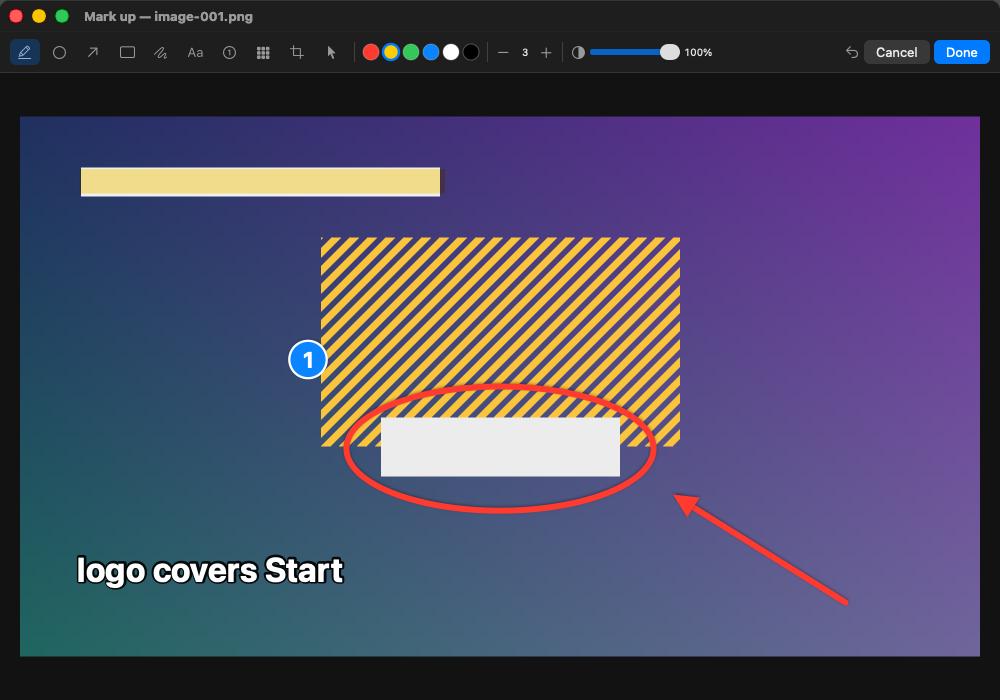
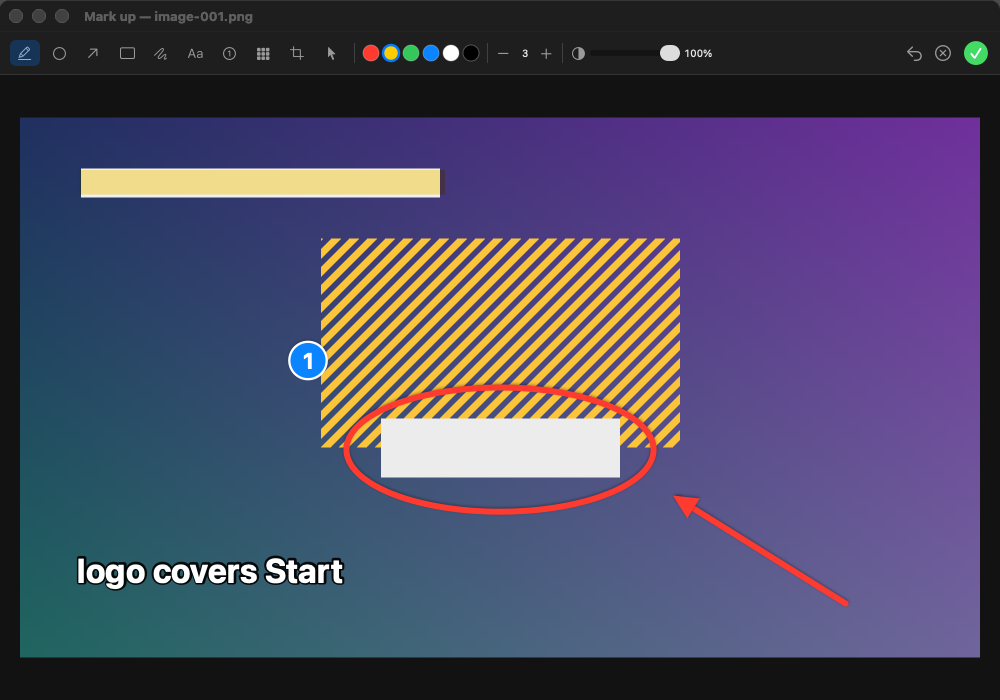
Mark-up: Done is a green tick, Cancel/No Marks a cross, Discard a red bin, and they never shrink on a narrow window

diff --git a/Sources/Snagbook/Annotate/Annotator.swift b/Sources/Snagbook/Annotate/Annotator.swift
@@ -269,18 +269,35 @@ struct AnnotatorView: View {
                 Divider().frame(height: 20).padding(.horizontal, 4)
                 Image(systemName: "circle.lefthalf.filled").foregroundStyle(.secondary).help("Opacity")
                 Slider(value: Binding(get: { a.opacity }, set: { a.setOpacity($0) }), in: 0.1...1)
-                    .frame(width: 90)
+                    .frame(minWidth: 40, idealWidth: 90, maxWidth: 90)
                     .help("How solid marks are: drag left to see the picture through them (, and . step it)")
                 Text("\(Int((a.opacity * 100).rounded()))%").font(.caption.monospacedDigit()).frame(width: 34, alignment: .leading)
                 Spacer(minLength: 12)
-                Button { a.undo() } label: { Image(systemName: "arrow.uturn.backward") }.buttonStyle(.borderless).help("Undo (⌘Z)")
-                if a.isNew {
-                    Button("Discard", role: .destructive) { a.discard() }.help("Throw this screenshot away (⌘⌫)")
-                    Button("No Marks") { a.skip() }.help("Keep the screenshot as it is (Esc)")
-                } else {
-                    Button("Cancel") { a.skip() }.help("Keep the picture as it was (Esc)")
+                // Icons that never shrink: on a narrow window the words were squeezed to slivers.
+                HStack(spacing: 10) {
+                    Button { a.undo() } label: { Image(systemName: "arrow.uturn.backward") }.buttonStyle(.borderless).help("Undo (⌘Z)")
+                    if a.isNew {
+                        Button { a.discard() } label: { Image(systemName: "trash").foregroundStyle(.red) }
+                            .buttonStyle(.borderless).help("Discard: throw this screenshot away (⌘⌫)")
+                        Button { a.skip() } label: { Image(systemName: "xmark.circle") }
+                            .buttonStyle(.borderless).help("No marks: keep the screenshot as it is (Esc)")
+                    } else {
+                        Button { a.skip() } label: { Image(systemName: "xmark.circle") }
+                            .buttonStyle(.borderless).help("Cancel: keep the picture as it was (Esc)")
+                    }
+                    Button { a.done() } label: {
+                        Image(systemName: "checkmark.circle.fill")
+                            .symbolRenderingMode(.palette)
+                            .foregroundStyle(.white, .green)
+                            .font(.system(size: 24))
+                    }
+                    .buttonStyle(.plain)
+                    .keyboardShortcut(.defaultAction)
+                    .help("Done: save the marks (Return)")
                 }
-                Button("Done") { a.done() }.keyboardShortcut(.defaultAction).help("Save (Return)")
+                .font(.system(size: 16))
+                .fixedSize()
+                .layoutPriority(1)
             }
             .padding(.horizontal, 10).padding(.vertical, 7)
             .background(.bar)

diff --git a/Sources/Snagbook/Support/Shots.swift b/Sources/Snagbook/Support/Shots.swift
@@ -44,6 +44,11 @@ enum Shots {
                 aw.setFrame(NSRect(x: 120, y: 60, width: 1000, height: 700), display: true)
                 await SelfTest.settle(800)
                 await write(aw, webViews: [], to: dir + "/markup.png")
+                if ProcessInfo.processInfo.environment["SNAGBOOK_SHOTS_NARROW"] != nil {
+                    aw.setFrame(NSRect(x: 120, y: 60, width: 620, height: 560), display: true)
+                    await SelfTest.settle(800)
+                    await write(aw, webViews: [], to: dir + "/markup-narrow.png")
+                }
                 a.skip()
             } else {
                 fail("the mark-up window did not open")

diff --git a/README.md b/README.md
@@ -63,7 +63,7 @@ The note is a small word processor — headings, bold and italic, colours and si
 
 Press **⌃⌘S** anywhere (or the camera button in the toolbar) and drag a rectangle; **F** takes the whole screen, **Esc** cancels. The picture opens in the mark-up window, then goes into the item you are looking at, at the cursor. Double-click any picture in a note to mark it up again later.
 
-Pick a tool and drag on the picture: **highlighter**, **circle**, **arrow**, **box**, **pen**, **text**, a **numbered marker** (1, 2, 3 … in order), **blur** to hide something, **crop**, or **select** to move, recolour or delete a mark. The **opacity** slider makes marks see-through, so the picture shows under them. **Return** (Done) saves; **Esc** keeps the picture as it was; **⌘⌫** throws a new screenshot away.
+Pick a tool and drag on the picture: **highlighter**, **circle**, **arrow**, **box**, **pen**, **text**, a **numbered marker** (1, 2, 3 … in order), **blur** to hide something, **crop**, or **select** to move, recolour or delete a mark. The **opacity** slider makes marks see-through, so the picture shows under them. **Return** or the green ✓ saves; **Esc** or ✕ keeps the picture as it was; **⌘⌫** or the red bin throws a new screenshot away.
 
 The untouched picture is kept beside the marked-up one (`shot-001.orig.png`, with the marks in `shot-001.marks.json`), so marks can be moved, changed or removed later — remove every mark and the original comes back.
 
@@ -130,7 +130,7 @@ The menu bar icon starts a recording or a screenshot, adds an item, starts or co
 | hold ⇧ while dragging | Square, circle, or an arrow at 45° |
 | ⌘Z ⇧⌘Z | Undo / redo |
 | ⌫ | Delete the selected mark |
-| Return / Esc / ⌘⌫ | Done / keep as it was / throw a new screenshot away |
+| Return / Esc / ⌘⌫ | Done (✓) / keep as it was (✕) / throw a new screenshot away (bin) |
 
 Hover over any button to see its shortcut.
 
